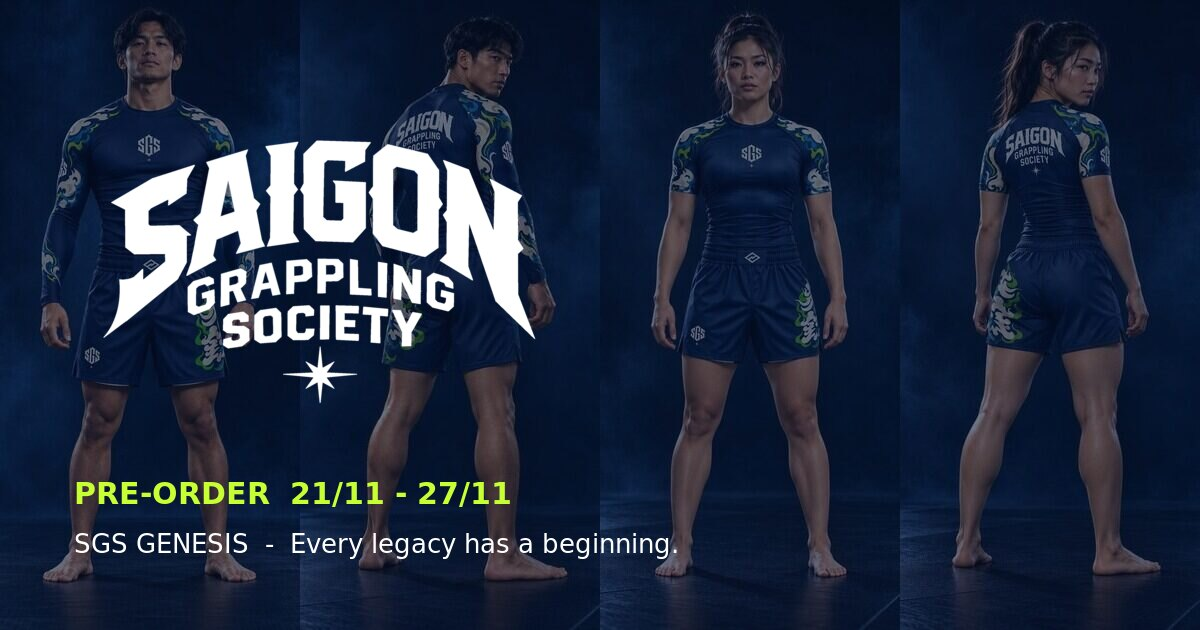
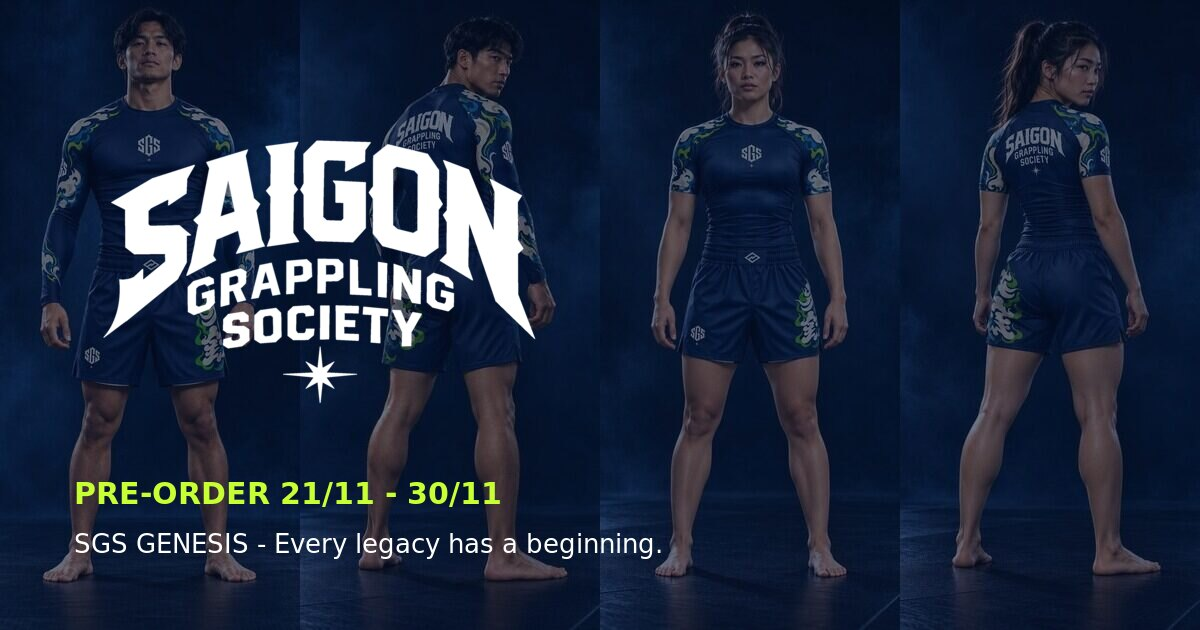
Extend pre-order deadline to 30/11

Changed region(s): [[0.2158, 0.8444, 0.555, 0.9048], [0.2158, 0.754, 0.4317, 0.8143]]

diff --git a/index.html b/index.html
@@ -544,10 +544,10 @@ const CONFIG = {
   // Dán URL Web App của Google Apps Script (xem apps-script.gs). Để trống = chưa nhận đơn được.
   SCRIPT_URL: "https://script.google.com/macros/s/AKfycbwxUp6_ukNcBAcXpyM-JHAYUJOVHKJk-hJs4DITjdZ1nKyxW3LMQdf3LnWrk8RvOoz-ow/exec",
   // Hết hạn pre-order (ISO, múi giờ +07). Sau mốc này form tự đóng. Để trống = không giới hạn.
-  DEADLINE: "2026-11-27T23:59:00+07:00",
-  PILL_DATES: "21/11 – 27/11",
+  DEADLINE: "2026-11-30T23:59:00+07:00",
+  PILL_DATES: "21/11 – 30/11",
   STEPS: [
-    {date:"21/11 – 27/11", title:"Pre-order", desc:"Điền form và chuyển khoản để giữ chỗ."},
+    {date:"21/11 – 30/11", title:"Pre-order", desc:"Điền form và chuyển khoản để giữ chỗ."},
     {date:"Sau khi chốt đơn", title:"Sản xuất", desc:"Sản xuất sau khi đóng pre-order. Thời gian cụ thể sẽ được thông báo."},
     {date:"Sẽ thông báo", title:"Giao hàng", desc:"Bắt đầu giao hàng. Nhận tại phòng tập hoặc ship tận nơi."}
   ],
@@ -650,7 +650,7 @@ const faqs=[
   ["Nhận hàng ở đâu?","Nhận trực tiếp tại phòng tập "+CONFIG.PICKUP+", hoặc nhập địa chỉ để giao tận nơi. Phí vận chuyển bạn trả cho shipper."],
   ["Chọn size thế nào?","Mỗi sản phẩm chọn một size, combo dùng chung một size cho cả áo và shorts. Xem bảng size theo chiều cao và cân nặng, nếu nằm giữa hai size thì chọn size lớn hơn."],
   ["Mình có thể đặt chung với bạn tập không?","Được. Bấm Thêm sản phẩm trong form để đặt nhiều bộ trong một đơn, mỗi bộ chọn size riêng."],
-  ["Khi nào nhận được hàng?","Pre-order đóng ngày 27/11, sau đó là thời gian sản xuất. Ban tổ chức sẽ thông báo lịch giao hàng cụ thể cho bạn."]
+  ["Khi nào nhận được hàng?","Pre-order đóng ngày 30/11, sau đó là thời gian sản xuất. Ban tổ chức sẽ thông báo lịch giao hàng cụ thể cho bạn."]
 ];
 $("#faqList").innerHTML=faqs.map(f=>`<details><summary>${f[0]}</summary><p>${f[1]}</p></details>`).join("");
 
